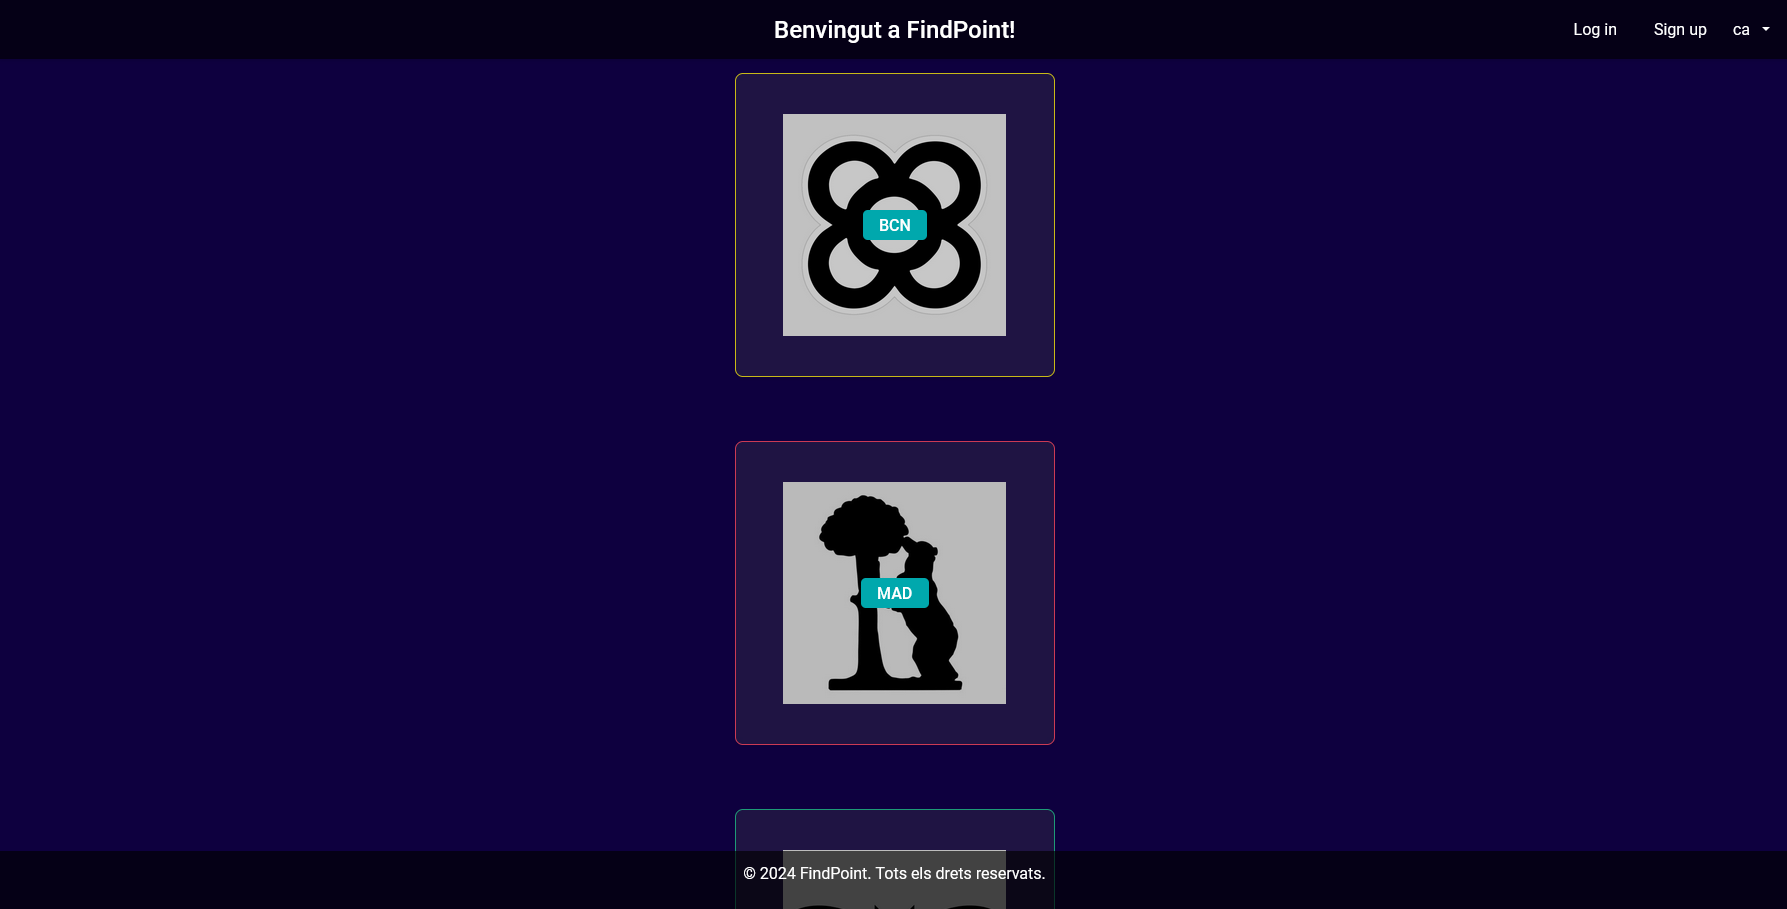
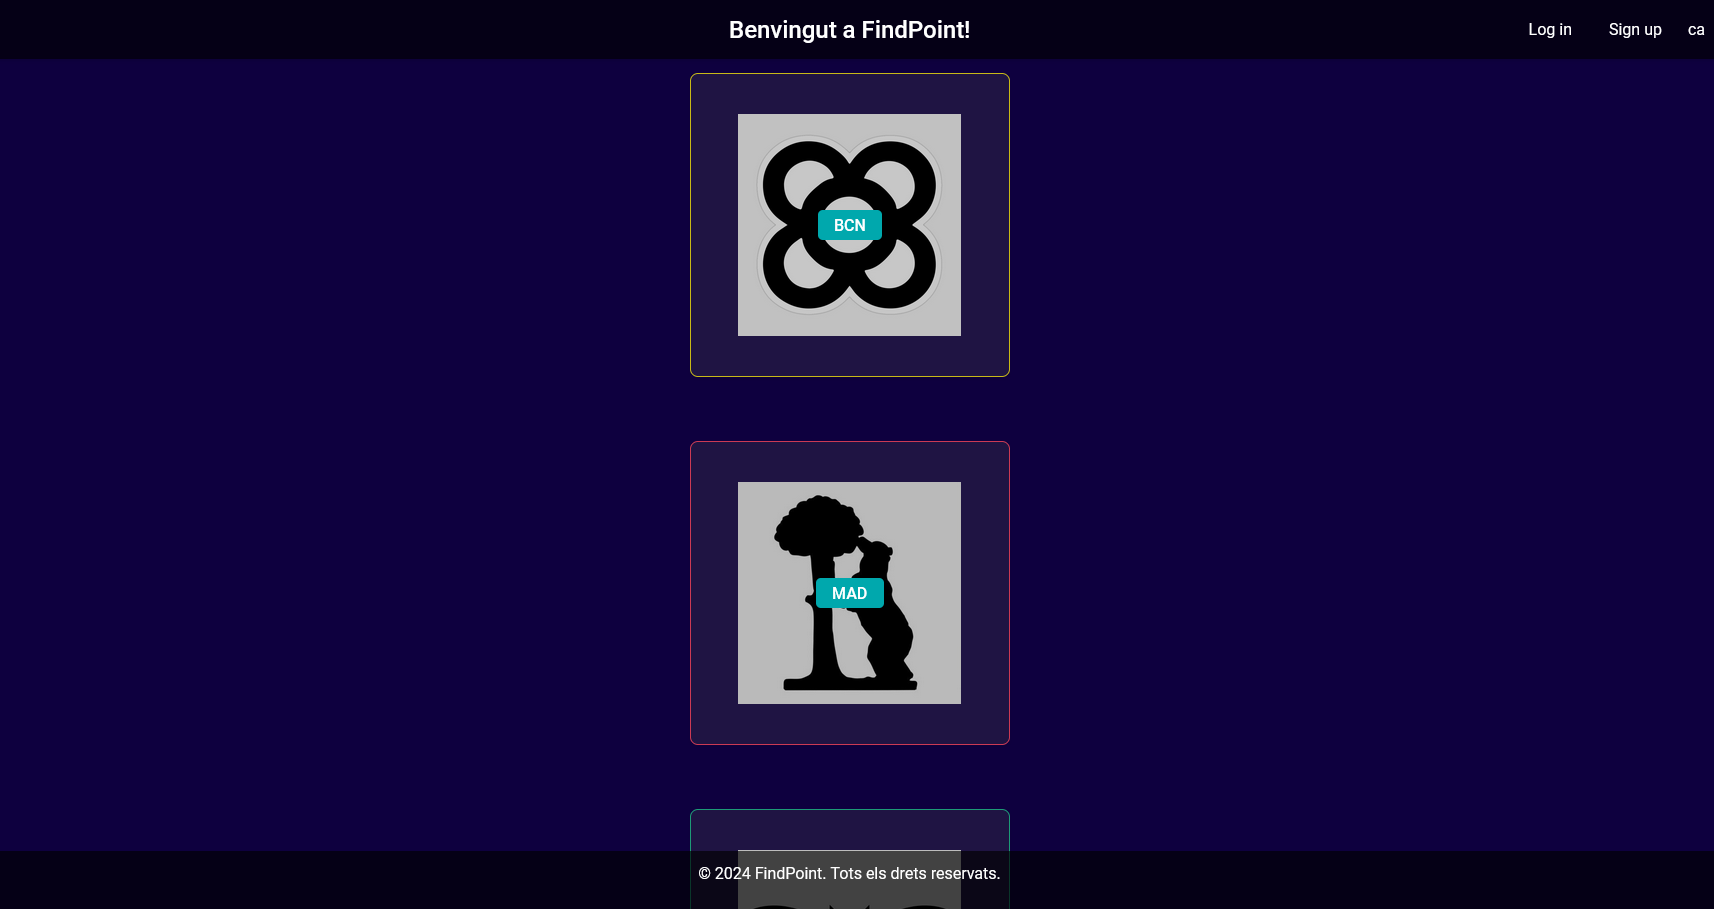
resp adjustments

diff --git a/src/App.css b/src/App.css
@@ -370,7 +370,7 @@ body {
 
   .section h3 {
     position: absolute;  /* Positioning relative to the parent .section */
-    top: 300px;
+    top: 340px;
     bottom: 55px;        /* Position it 20px from the bottom */
     right: 45px; 
     left: 100px;
@@ -422,8 +422,9 @@ body {
   .project-card {
     width: 80%; /* La tarjeta toma el ancho completo del contenedor */
     max-width: 290px; /* Ancho máximo para no exceder el viewport */
-    margin-right: 20px;
+    margin-right: 30px;
     margin-left: 40px; /* Añade un margen izquierdo */
+    right: 5px;
     margin-bottom: 10px;
     aspect-ratio: 16 / 9; /* Relación de aspecto ajustada */
     min-height: 200px; /* Establecer una altura mínima para que no sea demasiado pequeña */
